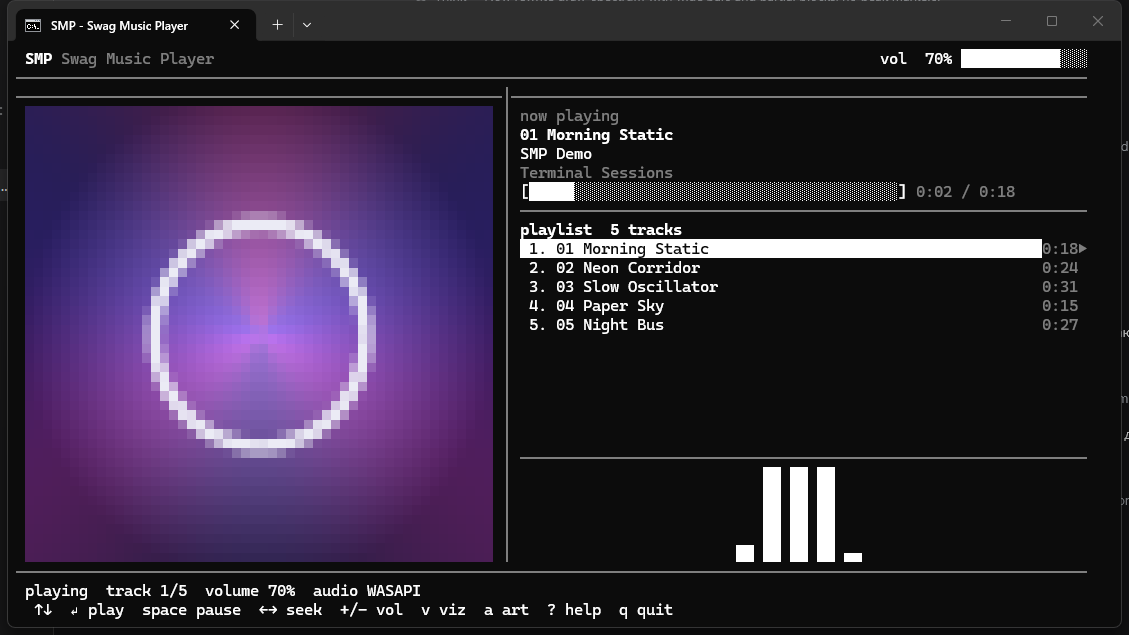
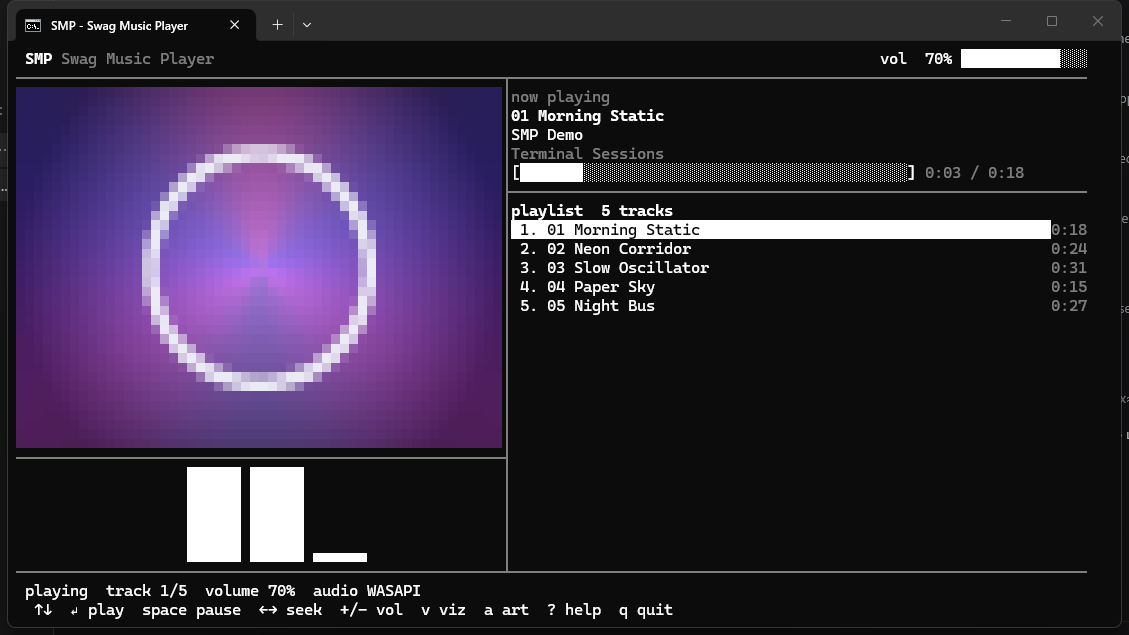
style: junction glyphs for the panel rules and a tidier layout
- horizontal rules, the vertical divider and the plot rules meet in
  explicit T junctions instead of stopping next to each other
- the divider spans exactly the rows between the header and footer rules
- the visualiser moved under the cover (left panel bottom), seven bands
  from 55 Hz to 3348 Hz, drawn with sub-cell block glyphs
- fixed a mojibake comment left over from an earlier edit

diff --git a/src/ui.c b/src/ui.c
@@ -1,4 +1,4 @@
-/*
+/*
  * SMP - Swag Music Player
  * Terminal user interface.
  *
@@ -19,10 +19,15 @@
 /* Active palette; pure white unless a configuration file overrides it. */
 static SmpUiTheme g_theme;
 
-#define SEPARATOR "\xe2\x94\x80"  /* РІвЂќР‚ */
-#define BAR_FULL "\xe2\x96\x88"   /* РІвЂ“в‚¬ */
-#define BAR_EMPTY "\xe2\x96\x91"  /* РІвЂ“вЂ */
-#define MARKER "\xe2\x96\xb6"     /* РІвЂ“В¶ */
+#define SEPARATOR "\xe2\x94\x80"  /* horizontal rule */
+#define VERTICAL "\xe2\x94\x82"   /* vertical rule */
+#define JUNCTION_TOP "\xe2\x94\xac"     /* top tee */
+#define JUNCTION_LEFT "\xe2\x94\x9c"    /* left tee */
+#define JUNCTION_RIGHT "\xe2\x94\xa4"   /* right tee */
+#define JUNCTION_BOTTOM "\xe2\x94\xb4"  /* bottom tee */
+#define BAR_FULL "\xe2\x96\x88"   /* full block */
+#define BAR_EMPTY "\xe2\x96\x91"  /* light shade */
+#define MARKER "\xe2\x96\xb6"     /* right pointing triangle */
 
 void smp_ui_theme_defaults(SmpUiTheme *theme)
 {
@@ -339,12 +344,15 @@ static void draw_cover_ascii(SmpUiState *state,
 
 }
 
+static const uint8_t *image_pixel(const SmpImage *image, int x, int y)
+{
+    return image->pixels + ((size_t)y * (size_t)image->width + (size_t)x) * 4u;
+}
+
 static void draw_cover(SmpUiState *state, SmpFrame *frame, int x, int y, int width, int height)
 {
     int cells_x;
     int cells_y;
-    int offset_x;
-    int offset_y;
     int row;
 
     ensure_cover(state);
@@ -373,54 +381,40 @@ static void draw_cover(SmpUiState *state, SmpFrame *frame, int x, int y, int wid
     /* Fill the whole panel: the image is cropped, never letterboxed. */
     cells_x = width;
     cells_y = height;
-    if (cells_x < 2 || cells_y < 1) {
+    if (cells_x < 1 || cells_y < 1) {
         return;
     }
 
-    {
-        if (state->cover_scaled_width != cells_x || state->cover_scaled_height != cells_y * 2) {
-            smp_image_free(&state->cover_scaled);
-            if (smp_image_fill_box(&state->cover, &state->cover_scaled, cells_x, cells_y * 2)
-                != SMP_OK)
-            {
-                state->cover_scaled_width = 0;
-                state->cover_scaled_height = 0;
-                return;
-            }
-            state->cover_scaled_width = cells_x;
-            state->cover_scaled_height = cells_y * 2;
+    if (state->cover_scaled_width != cells_x || state->cover_scaled_height != cells_y * 2) {
+        smp_image_free(&state->cover_scaled);
+        if (smp_image_fill_box(&state->cover, &state->cover_scaled, cells_x, cells_y * 2) != SMP_OK) {
+            state->cover_scaled_width = 0;
+            state->cover_scaled_height = 0;
+            return;
         }
+        state->cover_scaled_width = cells_x;
+        state->cover_scaled_height = cells_y * 2;
+    }
 
-        offset_x = x;
-        offset_y = y;
+    for (row = 0; row < cells_y; row++) {
+        int column;
 
-        for (row = 0; row < cells_y; row++) {
-            int column;
+        for (column = 0; column < cells_x; column++) {
+            const uint8_t *top = image_pixel(&state->cover_scaled, column, row * 2);
+            const uint8_t *bottom = image_pixel(&state->cover_scaled, column, row * 2 + 1);
 
-            for (column = 0; column < cells_x; column++) {
-                const uint8_t *top = state->cover_scaled.pixels
-                                     + (((size_t)(row * 2) * (size_t)state->cover_scaled.width)
-                                        + (size_t)column)
-                                           * 4u;
-                const uint8_t *bottom
-                    = state->cover_scaled.pixels
-                      + (((size_t)(row * 2 + 1) * (size_t)state->cover_scaled.width) + (size_t)column)
-                            * 4u;
-
-                smp_frame_put_cell(frame,
-                                   offset_x + column,
-                                   offset_y + row,
-                                   0x2580u, /* РІвЂ“Р‚ upper half block */
-                                   top[0],
-                                   top[1],
-                                   top[2],
-                                   true,
-                                   bottom[0],
-                                   bottom[1],
-                                   bottom[2]);
-            }
+            (void)smp_frame_put_cell(frame,
+                                     x + column,
+                                     y + row,
+                                     0x2580u, /* upper half block */
+                                     top[0],
+                                     top[1],
+                                     top[2],
+                                     true,
+                                     bottom[0],
+                                     bottom[1],
+                                     bottom[2]);
         }
-
     }
 }
 
@@ -831,6 +825,10 @@ void smp_ui_render(SmpUiState *state,
     int right_x;
     int right_width;
     int playlist_y;
+    int panel_top;
+    int panel_bottom;
+    int spectrum_height;
+    int cover_bottom;
 
     if (state == NULL || frame == NULL || playlist == NULL || player == NULL || frame->cells == NULL) {
         return;
@@ -861,8 +859,8 @@ void smp_ui_render(SmpUiState *state,
         left_width = frame->width - 34;
     }
 
-    right_x = left_width + 2;
-    right_width = frame->width - right_x - 1;
+    right_x = left_width + 1;
+    right_width = frame->width - right_x;
 
     /*
      * While the player is idle the panel describes the highlighted track,
@@ -886,54 +884,47 @@ void smp_ui_render(SmpUiState *state,
         draw_header(frame, &inactive);
         draw_separator(frame, 1, 0, frame->width);
 
-        /* Left panel: the cover fills the whole panel, no letterboxing. */
+        /* Left panel: the cover fills its half, the visualiser sits right below. */
         {
-            int panel_top = 3;
-            int panel_height = frame->height - 4 - panel_top + 1;
+            panel_top = 2;
+            panel_bottom = frame->height - 4;
+            spectrum_height = 0;
+            cover_bottom = panel_bottom;
 
-            draw_cover(state, frame, 1, panel_top, left_width - 2, panel_height);
+            if (state->spectrum != NULL && state->theme.show_spectrum
+                && panel_bottom - panel_top > 12)
+            {
+                spectrum_height = SMP_MIN(5, (panel_bottom - panel_top) / 4);
+                cover_bottom = panel_bottom - spectrum_height - 1;
+            }
+
+            draw_cover(state, frame, 0, panel_top, left_width, cover_bottom - panel_top + 1);
+
+            if (spectrum_height > 0) {
+                draw_separator(frame, cover_bottom + 1, 0, left_width);
+                draw_spectrum(state, frame, 0, cover_bottom + 2, left_width, spectrum_height);
+            }
         }
-        draw_separator(frame, 2, 0, frame->width);
 
-        /* Right panel: track info and playlist. */
+        /* Right panel: track info, progress and playlist. */
         draw_now_playing(frame,
                          right_x,
-                         3,
+                         2,
                          right_width,
                          &inactive,
                          player->state == SMP_PLAYER_STOPPED ? "selected" : "now playing");
-        draw_progress(frame, right_x, 7, right_width, &inactive);
-        draw_separator(frame, 8, right_x, right_width);
+        draw_progress(frame, right_x, 6, right_width, &inactive);
+        draw_separator(frame, 7, right_x, right_width);
     }
 
-    playlist_y = 9;
-
-    /* The visualiser lives in the bottom right corner of the right panel. */
+    playlist_y = 8;
     {
-        int spectrum_height = 0;
-        int playlist_bottom = frame->height - 4;
-        int item_rows;
+        int item_rows = (frame->height - 4) - (playlist_y + 1) + 1;
 
-        if (state->spectrum != NULL && state->theme.show_spectrum && playlist_bottom - playlist_y > 8) {
-            spectrum_height = SMP_MIN(5, (playlist_bottom - playlist_y) / 3);
-            playlist_bottom -= spectrum_height + 1;
-        }
-
-        item_rows = playlist_bottom - playlist_y;
         if (item_rows < 1) {
             item_rows = 1;
         }
         draw_playlist(state, frame, right_x, playlist_y, right_width, item_rows, playlist, player);
-
-        if (spectrum_height > 0) {
-            draw_separator(frame, frame->height - 4 - spectrum_height, right_x, right_width);
-            draw_spectrum(state,
-                          frame,
-                          right_x,
-                          frame->height - 4 - spectrum_height + 1,
-                          right_width,
-                          spectrum_height);
-        }
     }
 
     /* Vertical separator between the panels. */
@@ -941,12 +932,24 @@ void smp_ui_render(SmpUiState *state,
         int row;
 
         smp_frame_set_style(frame, smp_style_dim(g_theme.dim.r, g_theme.dim.g, g_theme.dim.b));
-        for (row = 2; row < frame->height - 2; row++) {
-            (void)smp_frame_put(frame, left_width, row, "\xe2\x94\x82");
+        for (row = 2; row <= frame->height - 4; row++) {
+            (void)smp_frame_put(frame, left_width, row, VERTICAL);
         }
     }
 
     draw_footer(state, frame, player, backend, now_ms);
+
+    /*
+     * Junction glyphs: without them a one cell gap shows up between the
+     * horizontal rules and the vertical divider.
+     */
+    smp_frame_set_style(frame, smp_style_dim(g_theme.dim.r, g_theme.dim.g, g_theme.dim.b));
+    (void)smp_frame_put(frame, left_width, 1, JUNCTION_TOP);
+    (void)smp_frame_put(frame, left_width, 7, JUNCTION_LEFT);
+    (void)smp_frame_put(frame, left_width, frame->height - 3, JUNCTION_BOTTOM);
+    if (spectrum_height > 0) {
+        (void)smp_frame_put(frame, left_width, cover_bottom + 1, JUNCTION_RIGHT);
+    }
 
     if (state->show_help) {
         draw_help(frame);

diff --git a/tests/test_spectrum.c b/tests/test_spectrum.c
@@ -14,9 +14,10 @@
 #define TEST_RATE 48000
 #define TEST_WINDOW 1024
 #define TEST_PI 3.14159265358979323846
-/* The bands are log spaced from 40 Hz to 16 kHz; derive the index instead of hardcoding it. */
+/* The bands are log spaced over the configured range; derive the index instead of hardcoding it. */
 #define TEST_440_BAND                                                                          \
-    ((size_t)((log(440.0 / 40.0) / log(16000.0 / 40.0)) * (double)SMP_SPECTRUM_BANDS))
+    ((size_t)((log(440.0 / SMP_SPECTRUM_MIN_HZ) / log(SMP_SPECTRUM_MAX_HZ / SMP_SPECTRUM_MIN_HZ)) \
+              * (double)SMP_SPECTRUM_BANDS))
 #define TEST_FAR_BAND (SMP_SPECTRUM_BANDS - 1)
 
 void suite_spectrum(void);

diff --git a/src/spectrum.c b/src/spectrum.c
@@ -14,8 +14,7 @@
 #include "smp/fft.h"
 #include "smp/thread.h"
 
-#define SMP_SPECTRUM_MIN_HZ 40.0
-#define SMP_SPECTRUM_MAX_HZ 16000.0
+
 #define SMP_SPECTRUM_DB_FLOOR (-70.0)
 /*
  * Bar dynamics follow cava (cavacore.c): the bar jumps straight to a new peak,
@@ -81,7 +80,7 @@ static size_t spectrum_bin_for(const SmpSpectrum *spectrum, double frequency)
 }
 
 /*
- * Splits the 40 Hz..16 kHz range into logarithmic bands. Frequencies above
+ * Splits the configured range into logarithmic bands. Frequencies above
  * Nyquist collapse onto the Nyquist bin, which matches the permission for
  * empty bands to reuse their nearest bin.
  */

diff --git a/src/tags.c b/src/tags.c
@@ -1,4 +1,4 @@
-/*
+/*
  * SMP - Swag Music Player
  * Embedded metadata: ID3v2, ID3v1 and RIFF INFO chunks.
  *
@@ -102,10 +102,10 @@ static uint32_t cp1251_to_unicode(uint8_t byte)
         return cp1251_upper[byte - 0xc0u];
     }
     if (byte == 0xa8u) {
-        return 0x0401; /* Р Рѓ */
+        return 0x0401; /* РЃ */
     }
     if (byte == 0xb8u) {
-        return 0x0451; /* РЎвЂ */
+        return 0x0451; /* lowercase yo */
     }
     return 0xfffdu;
 }

diff --git a/include/smp/spectrum.h b/include/smp/spectrum.h
@@ -10,7 +10,10 @@
 #include <stddef.h>
 #include <stdint.h>
 
-#define SMP_SPECTRUM_BANDS 16
+/* Seven bands from 55 Hz to 3348 Hz, the range that matters for music. */
+#define SMP_SPECTRUM_BANDS 7
+#define SMP_SPECTRUM_MIN_HZ 55.0
+#define SMP_SPECTRUM_MAX_HZ 3348.0
 
 typedef struct SmpSpectrum SmpSpectrum;
 
